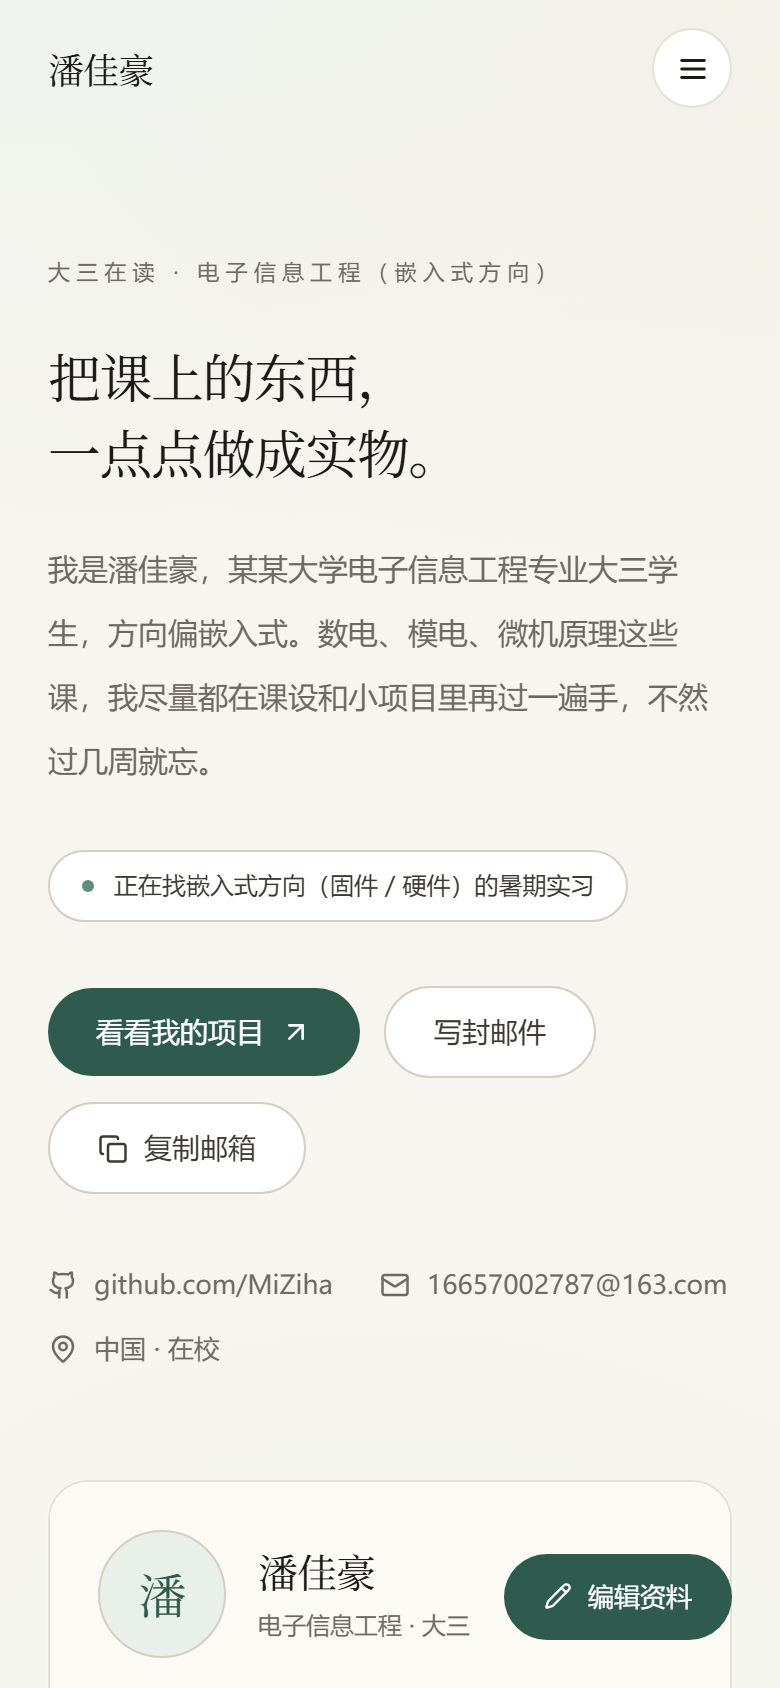
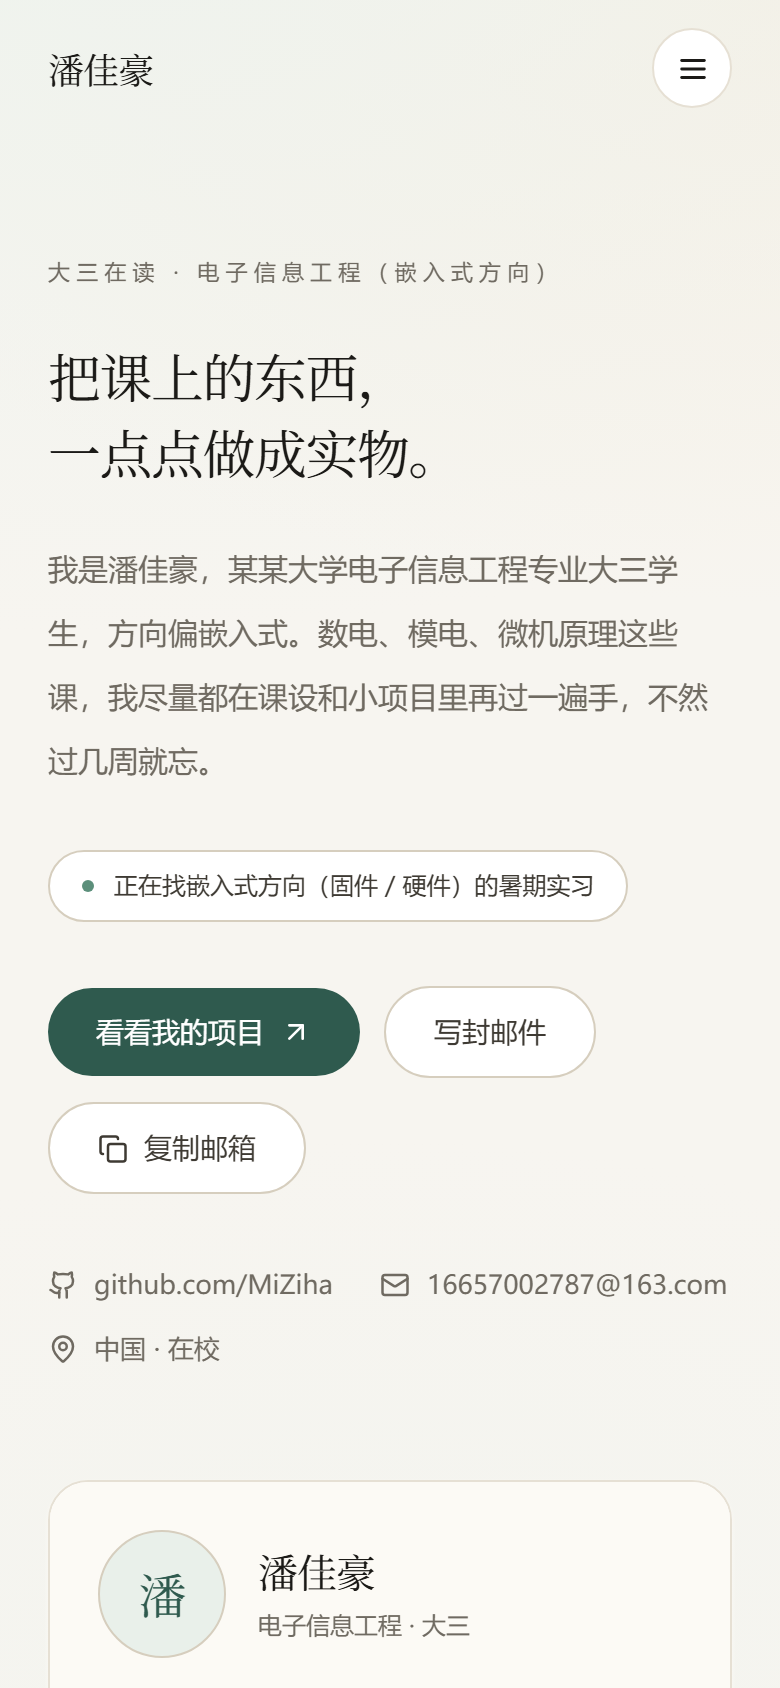
feat: 编辑入口改为隐藏触发（#edit / Ctrl+Shift+E），清除页面上的提示性文案

Changed region(s): [[0.6462, 0.8934, 0.9538, 0.9858]]

diff --git a/src/components/Navbar.tsx b/src/components/Navbar.tsx
@@ -1,4 +1,4 @@
-import { useEffect, useState } from 'react';
+import { useEffect, useState } from 'react';
 import { Menu, Pencil, X } from 'lucide-react';
 import { useSiteData } from '../store/siteData';
 
@@ -11,7 +11,7 @@ const links = [
 ];
 
 export function Navbar() {
-  const { data, requestEdit: openEditor } = useSiteData();
+  const { data, unlocked, requestEdit } = useSiteData();
   const [open, setOpen] = useState(false);
   const [active, setActive] = useState('home');
   const [scrolled, setScrolled] = useState(false);
@@ -72,15 +72,17 @@ export function Navbar() {
         </nav>
 
         <div className="flex items-center gap-2">
-          <button
-            type="button"
-            onClick={openEditor}
-            className="hidden items-center gap-1.5 rounded-full border bg-surface px-4 py-2 text-[12px] transition-colors md:inline-flex"
-            style={{ borderColor: 'var(--line-strong)', color: 'var(--ink-soft)' }}
-          >
-            <Pencil size={13} />
-            编辑资料
-          </button>
+          {unlocked ? (
+            <button
+              type="button"
+              onClick={requestEdit}
+              className="hidden items-center gap-1.5 rounded-full border bg-surface px-4 py-2 text-[12px] transition-colors md:inline-flex"
+              style={{ borderColor: 'var(--line-strong)', color: 'var(--ink-soft)' }}
+            >
+              <Pencil size={13} />
+              编辑
+            </button>
+          ) : null}
 
           <button
             type="button"
@@ -110,20 +112,22 @@ export function Navbar() {
                 </a>
               </li>
             ))}
-            <li className="pt-2">
-              <button
-                type="button"
-                className="inline-flex w-full items-center justify-center gap-2 rounded-full border px-4 py-2.5 text-[13px]"
-                style={{ borderColor: 'var(--line-strong)' }}
-                onClick={() => {
-                  setOpen(false);
-                  openEditor();
-                }}
-              >
-                <Pencil size={13} />
-                编辑资料
-              </button>
-            </li>
+            {unlocked ? (
+              <li className="pt-2">
+                <button
+                  type="button"
+                  className="inline-flex w-full items-center justify-center gap-2 rounded-full border px-4 py-2.5 text-[13px]"
+                  style={{ borderColor: 'var(--line-strong)' }}
+                  onClick={() => {
+                    setOpen(false);
+                    requestEdit();
+                  }}
+                >
+                  <Pencil size={13} />
+                  编辑
+                </button>
+              </li>
+            ) : null}
           </ul>
         </div>
       ) : null}

diff --git a/src/components/Hero.tsx b/src/components/Hero.tsx
@@ -3,7 +3,7 @@ import { useSiteData } from '../store/siteData';
 import { useCopy } from '../hooks/useCopy';
 
 export function Hero() {
-  const { data, requestEdit, customized } = useSiteData();
+  const { data, requestEdit, customized, unlocked } = useSiteData();
   const { profile } = data;
   const { copied, copy } = useCopy(profile.email);
 
@@ -129,15 +129,17 @@ export function Hero() {
             ))}
           </div>
 
-          <button
-            type="button"
-            onClick={requestEdit}
-            className="flex w-full items-center justify-center gap-2 border-t px-6 py-3 text-[12px] transition-colors"
-            style={{ borderColor: 'var(--line)', color: 'var(--muted)', background: 'var(--surface)' }}
-          >
-            <Pencil size={12} />
-            {customized ? '内容已在本机修改过 · 点这里继续编辑' : '这些内容只有本人能改（点这里验证口令）'}
-          </button>
+          {unlocked ? (
+            <button
+              type="button"
+              onClick={requestEdit}
+              className="flex w-full items-center justify-center gap-2 border-t px-6 py-3 text-[12px] transition-colors"
+              style={{ borderColor: 'var(--line)', color: 'var(--muted)', background: 'var(--surface)' }}
+            >
+              <Pencil size={12} />
+              {customized ? '继续编辑' : '编辑内容'}
+            </button>
+          ) : null}
         </aside>
       </div>
     </section>

diff --git a/src/components/auth/LoginGate.tsx b/src/components/auth/LoginGate.tsx
@@ -78,9 +78,9 @@ export function LoginGate() {
               <Lock size={17} />
             </span>
             <div>
-              <p className="display text-lg">编辑需要验证</p>
+              <p className="display text-lg">需要口令</p>
               <p className="mt-0.5 text-[11.5px]" style={{ color: 'var(--muted)' }}>
-                这个页面只开放给本人维护
+                这是本人的维护入口
               </p>
             </div>
           </div>
@@ -136,13 +136,8 @@ export function LoginGate() {
         ) : null}
 
         <button type="submit" className="btn-primary mt-5 w-full !py-2.5 text-[13px]" disabled={locked}>
-          {locked ? `请等待 ${remaining} 秒` : '验证并进入编辑'}
+          {locked ? `请等待 ${remaining} 秒` : '进入'}
         </button>
-
-        <p className="mt-4 text-[11px] leading-6" style={{ color: 'var(--muted)' }}>
-          口令以哈希形式写在 <code className="rounded bg-white px-1 py-0.5 font-mono">src/auth/passcode.ts</code> 里，
-          想换口令改那个文件即可。这是纯前端校验，只用来挡住随手点开的人，不构成真正的安全边界。
-        </p>
       </form>
     </div>,
     document.body,

diff --git a/src/hooks/useOwnerEntry.ts b/src/hooks/useOwnerEntry.ts
@@ -1,0 +1,36 @@
+import { useEffect } from 'react';
+import { useSiteData } from '../store/siteData';
+
+/**
+ * 站点主人的隐藏入口（访客看不出来，也没有任何按钮提示）：
+ *   1. 键盘快捷键：Ctrl / Cmd + Shift + E
+ *   2. 地址栏加 #edit，例如 https://你的域名/#edit
+ *   3. 手机上把 #edit 那个链接存成书签即可
+ * 一旦解锁过（sessionStorage），页面才会出现「编辑资料」按钮。
+ */
+export function useOwnerEntry(): void {
+  const { requestEdit } = useSiteData();
+
+  useEffect(() => {
+    const fromHash = () => {
+      if (window.location.hash.toLowerCase() === '#edit') requestEdit();
+    };
+
+    const onKeyDown = (event: KeyboardEvent) => {
+      const withModifier = event.ctrlKey || event.metaKey;
+      if (withModifier && event.shiftKey && event.key.toLowerCase() === 'e') {
+        event.preventDefault();
+        requestEdit();
+      }
+    };
+
+    fromHash();
+    window.addEventListener('hashchange', fromHash);
+    window.addEventListener('keydown', onKeyDown);
+
+    return () => {
+      window.removeEventListener('hashchange', fromHash);
+      window.removeEventListener('keydown', onKeyDown);
+    };
+  }, [requestEdit]);
+}

diff --git a/index.html b/index.html
@@ -6,12 +6,12 @@
     <title>潘佳豪 · 个人主页</title>
     <meta
       name="description"
-      content="潘佳豪的个人主页：AI 应用开发学习者，专注前端开发、AI 编程与大模型实践。这里收录了我的技能、项目与博客。"
+      content="潘佳豪的个人主页：电子信息工程专业大三学生，方向嵌入式。记录课程项目、调试笔记与学习路线。"
     />
-    <meta name="theme-color" content="#0B0F1A" />
+    <meta name="theme-color" content="#F7F5F0" />
     <link rel="icon" type="image/svg+xml" href="./favicon.svg" />
     <meta property="og:title" content="潘佳豪 · 个人主页" />
-    <meta property="og:description" content="AI 应用开发学习者 · 前端 / AI 编程 / 大模型实践记录" />
+    <meta property="og:description" content="大三在读 · 电子信息工程（嵌入式方向）｜ 项目与调试笔记" />
     <meta property="og:type" content="website" />
   </head>
   <body>

diff --git a/src/data/defaults.ts b/src/data/defaults.ts
@@ -151,8 +151,8 @@ export const defaultData: SiteData = {
       summary: '不算嵌入式的东西，只是想把做过的事整理一下，顺便学点前端。',
       desc: [
         '用 React + TypeScript + Vite + Tailwind 写的单页站，也就是你现在看的这个页面。',
-        '里面加了站内编辑和口令验证：改文字不用碰代码，改完存在浏览器本地，也可以导出备份。',
-        '做它主要是为了练「把东西讲清楚」，前端部分还很浅，遇到问题基本靠查文档和问 AI。',
+        '做它主要是练「把东西讲清楚」：怎么把一堆课设压缩成几条能看的文字，怎么让陌生人在半分钟内知道我会什么。',
+        '前端部分还很浅，布局和配色调了十几版，遇到问题基本靠查文档和试。',
       ],
       tags: ['React', 'TypeScript', 'Tailwind'],
       year: '2026',

diff --git a/src/components/Footer.tsx b/src/components/Footer.tsx
@@ -50,10 +50,8 @@ export function Footer() {
           className="mx-auto flex max-w-content flex-col gap-2 px-6 py-5 text-[11.5px] md:flex-row md:items-center md:justify-between"
           style={{ color: 'var(--muted)' }}
         >
-          <p>
-            © {new Date().getFullYear()} {profile.name} · 内容与代码均为本人整理
-          </p>
-          <p>React · TypeScript · Vite · Tailwind ｜ 内容可在页内编辑并保存在本机</p>
+          <p>© {new Date().getFullYear()} {profile.name} · 内容与代码均为本人整理</p>
+          <p>文章与项目均为个人学习记录，转载请注明出处</p>
         </div>
       </div>
     </footer>

diff --git a/src/components/EditFab.tsx b/src/components/EditFab.tsx
@@ -1,10 +1,11 @@
-import { Pencil } from 'lucide-react';
+import { Pencil } from 'lucide-react';
 import { useSiteData } from '../store/siteData';
 
+/** 仅在已解锁（本人）时出现的浮动编辑按钮，访客看不到 */
 export function EditFab() {
-  const { editing, requestEdit } = useSiteData();
+  const { editing, unlocked, requestEdit } = useSiteData();
 
-  if (editing) return null;
+  if (editing || !unlocked) return null;
 
   return (
     <button
@@ -14,7 +15,7 @@ export function EditFab() {
       style={{ background: 'var(--accent)' }}
     >
       <Pencil size={14} />
-      编辑资料
+      编辑
     </button>
   );
 }

diff --git a/src/App.tsx b/src/App.tsx
@@ -13,9 +13,13 @@ import { EditDrawer } from './components/edit/EditDrawer';
 import { LoginGate } from './components/auth/LoginGate';
 import { SectionDivider } from './components/ui/SectionHeading';
 import { useReveal } from './hooks/useReveal';
+import { useOwnerEntry } from './hooks/useOwnerEntry';
 
 function Page() {
   const { data } = useSiteData();
+
+  // 隐藏入口：#edit 或 Ctrl/Cmd + Shift + E（访客看不到按钮）
+  useOwnerEntry();
 
   // 内容结构变化时重新扫描一次，保证新增的条目也能正常淡入
   useReveal(

diff --git a/src/components/Contact.tsx b/src/components/Contact.tsx
@@ -150,7 +150,7 @@ export function Contact() {
           </div>
 
           <p className="mt-4 text-[11px] leading-6" style={{ color: 'var(--muted)' }}>
-            这个表单只做前端校验与演示（没有接后端，内容不会上传）；需要我回复请直接用左边邮箱。
+            也可以直接发邮件到上面的邮箱，我一般当天会看。
           </p>
         </form>
       </div>

diff --git a/AGENTS.md b/AGENTS.md
@@ -41,10 +41,13 @@ Vite 5 + React 18 + TypeScript（strict）+ Tailwind CSS 3 + lucide-react。
 
 ### 4.1 鉴权约定
 
-- 任何「编辑」入口（导航按钮、移动端浮动按钮、名片卡底部）都必须调用 Context 的 `requestEdit()`；**禁止**在组件里直接 `setEditing(true)` 绕过口令。
-- 口令只以 SHA-256 摘要形式存在 `src/auth/passcode.ts`，**禁止**把明文口令写进代码或文档。
+- **访客看不到任何编辑入口**：页面正文里不得出现「编辑」「本机」「口令」「演示」这类提示词；只有解锁后（`unlocked === true`）才渲染导航「编辑」按钮、移动端浮动按钮、名片卡底部入口。
+- 入口只有两个隐藏触发：地址栏 `#edit`，以及 `Ctrl/Cmd + Shift + E`（实现见 `hooks/useOwnerEntry.ts`）。
+- 任何编辑动作都必须走 Context 的 `requestEdit()`；**禁止**在组件里直接 `setEditing(true)` 绕过口令。
+- 口令只以 SHA-256 摘要形式存在 `src/auth/passcode.ts`，**禁止**把明文口令写进代码或对外可见的文案。
 - 解锁状态用 `sessionStorage['personal-site-unlocked']`，不要改成 localStorage（那会变成长期免密）。
 - `sha256Hex` 是自写实现（不依赖 `crypto.subtle`，file:// 也能用）；改动它必须用 `node:crypto` 对 `abc`、空串、中文、超长串各验一次。
+- 对外文案一律不解释实现：不说「前端校验」「localStorage」「某文件在哪」，只说业务本身。
 
 ### 4.2 照片约定
 
@@ -65,7 +68,7 @@ Vite 5 + React 18 + TypeScript（strict）+ Tailwind CSS 3 + lucide-react。
 | 圆角/按钮 | 按钮与标签用胶囊形；主按钮松绿填充，次按钮白底细边 |
 | 阴影 | 克制：只有卡片 `shadow-soft`、弹层 `shadow-lift`、抽屉 `shadow-panel` |
 | 断点 | `sm 640 / md 768 / lg 1024`；内容容器 `max-w-content`（1120px）+ `px-6` |
-| 移动端 | 375px 不得横向滚动；导航收成汉堡；编辑入口用浮动按钮（`md:hidden`） |
+| 移动端 | 375px 不得横向滚动；导航收成汉堡；解锁后才有浮动编辑按钮（`md:hidden`） |
 | 动效 | `.reveal` 淡入 0.65s；必须尊重 `prefers-reduced-motion` |
 | 无障碍 | 交互元素用 `button`/`a` 并带 `aria-label`；`:focus-visible` 描边；图片有 `alt` |
 

diff --git a/README.md b/README.md
@@ -15,11 +15,18 @@ npm run build        # 生产构建 → dist/
 npm run preview
 ```
 
-## 能改哪些内容（需要口令）
+## 能改哪些内容（隐藏入口 + 口令）
 
-点右上角「编辑资料」（手机上是右下角浮动按钮）→ **先输入编辑口令**，验证通过才会打开面板。
+**页面上没有任何编辑按钮**（访客看不出这是可编辑的站）。入口只有两个，只有你知道：
 
-口令实现：`src/auth/passcode.ts` 里只保存口令的 SHA-256 摘要，不保存明文；连续输错 5 次锁定 30 秒；解锁状态存 `sessionStorage`，关掉标签页即失效；面板右上角「退出编辑」会立刻上锁。
+| 方式 | 操作 |
+|---|---|
+| 快捷键 | `Ctrl + Shift + E`（Mac 用 `Cmd + Shift + E`） |
+| 网址 | 域名后面加 `#edit`，例如 `https://你的域名/#edit`（存成手机书签最方便） |
+
+打开后会要求输入口令，验证通过才出现编辑面板；解锁过的会话里，导航和手机右下角才会出现「编辑」按钮，点「退出编辑」立即消失。
+
+口令实现：`src/auth/passcode.ts` 里只保存口令的 SHA-256 摘要，不保存明文；连续输错 5 次锁定 30 秒；解锁状态存 `sessionStorage`，关掉标签页即失效。
 
 换口令（三步）：
 
